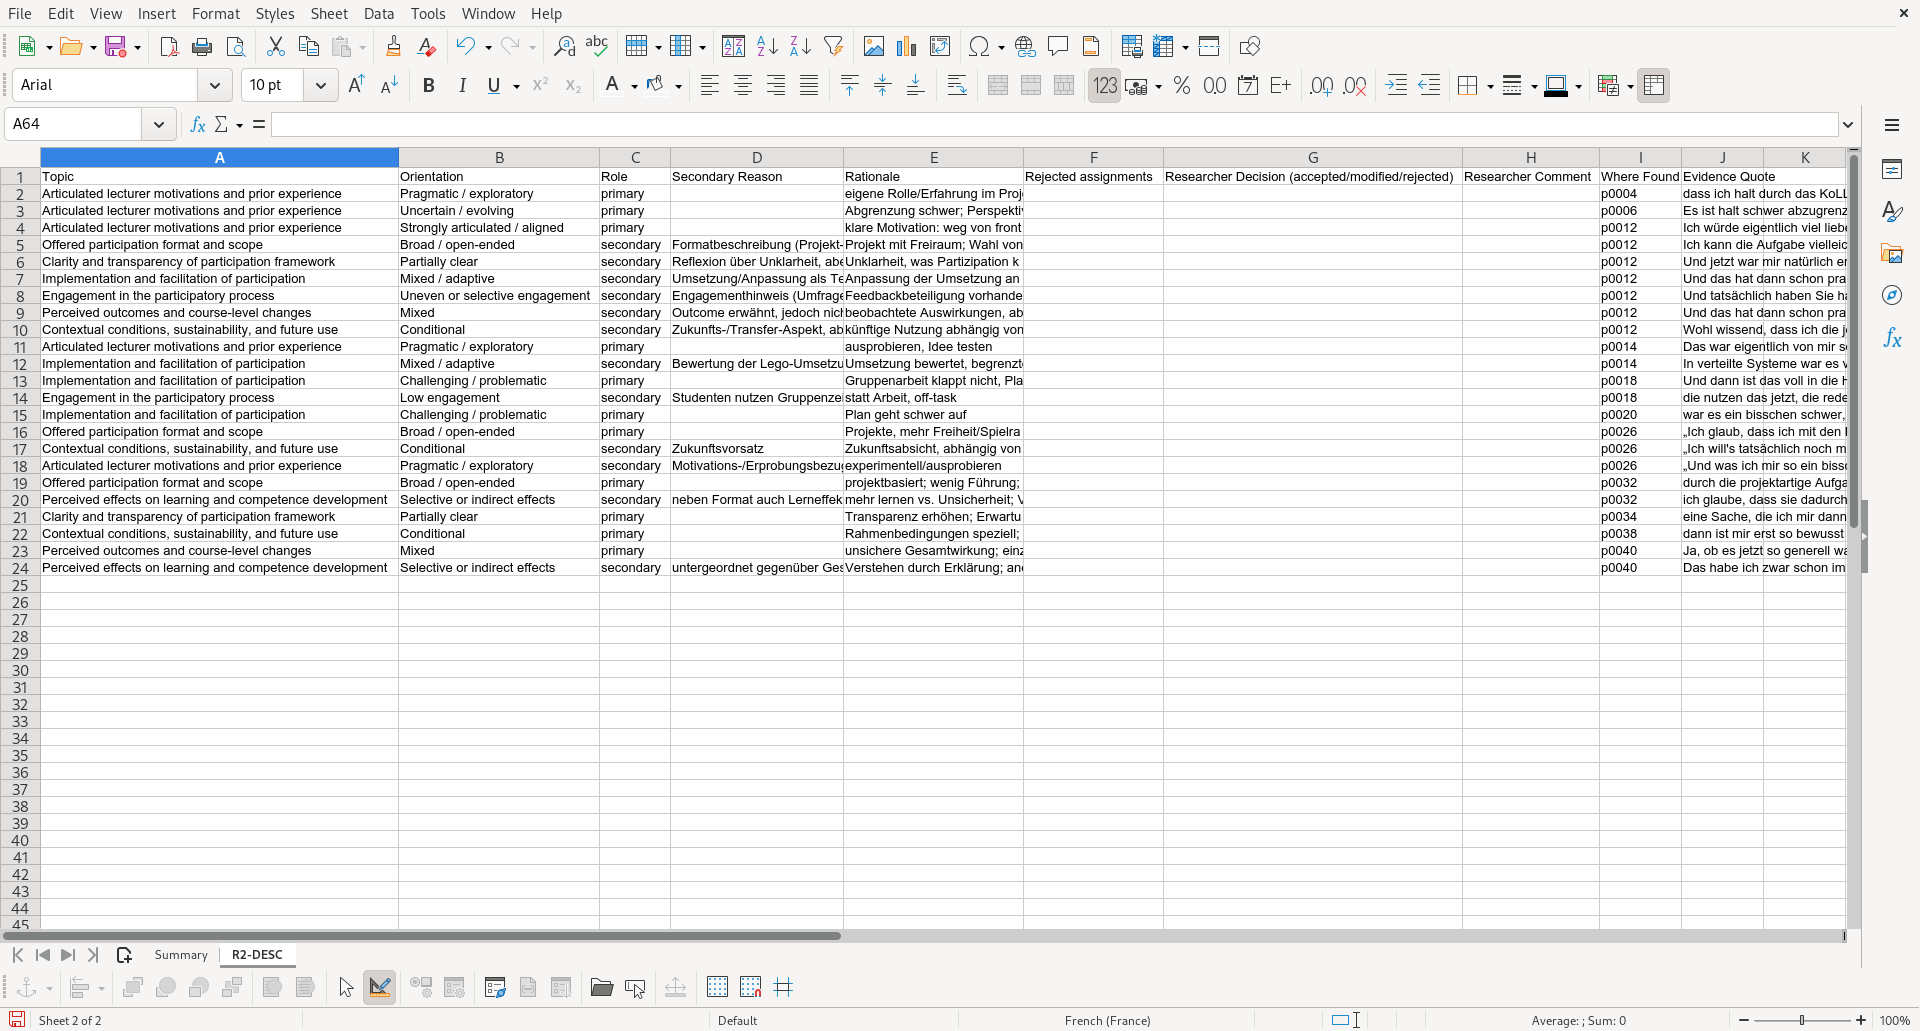
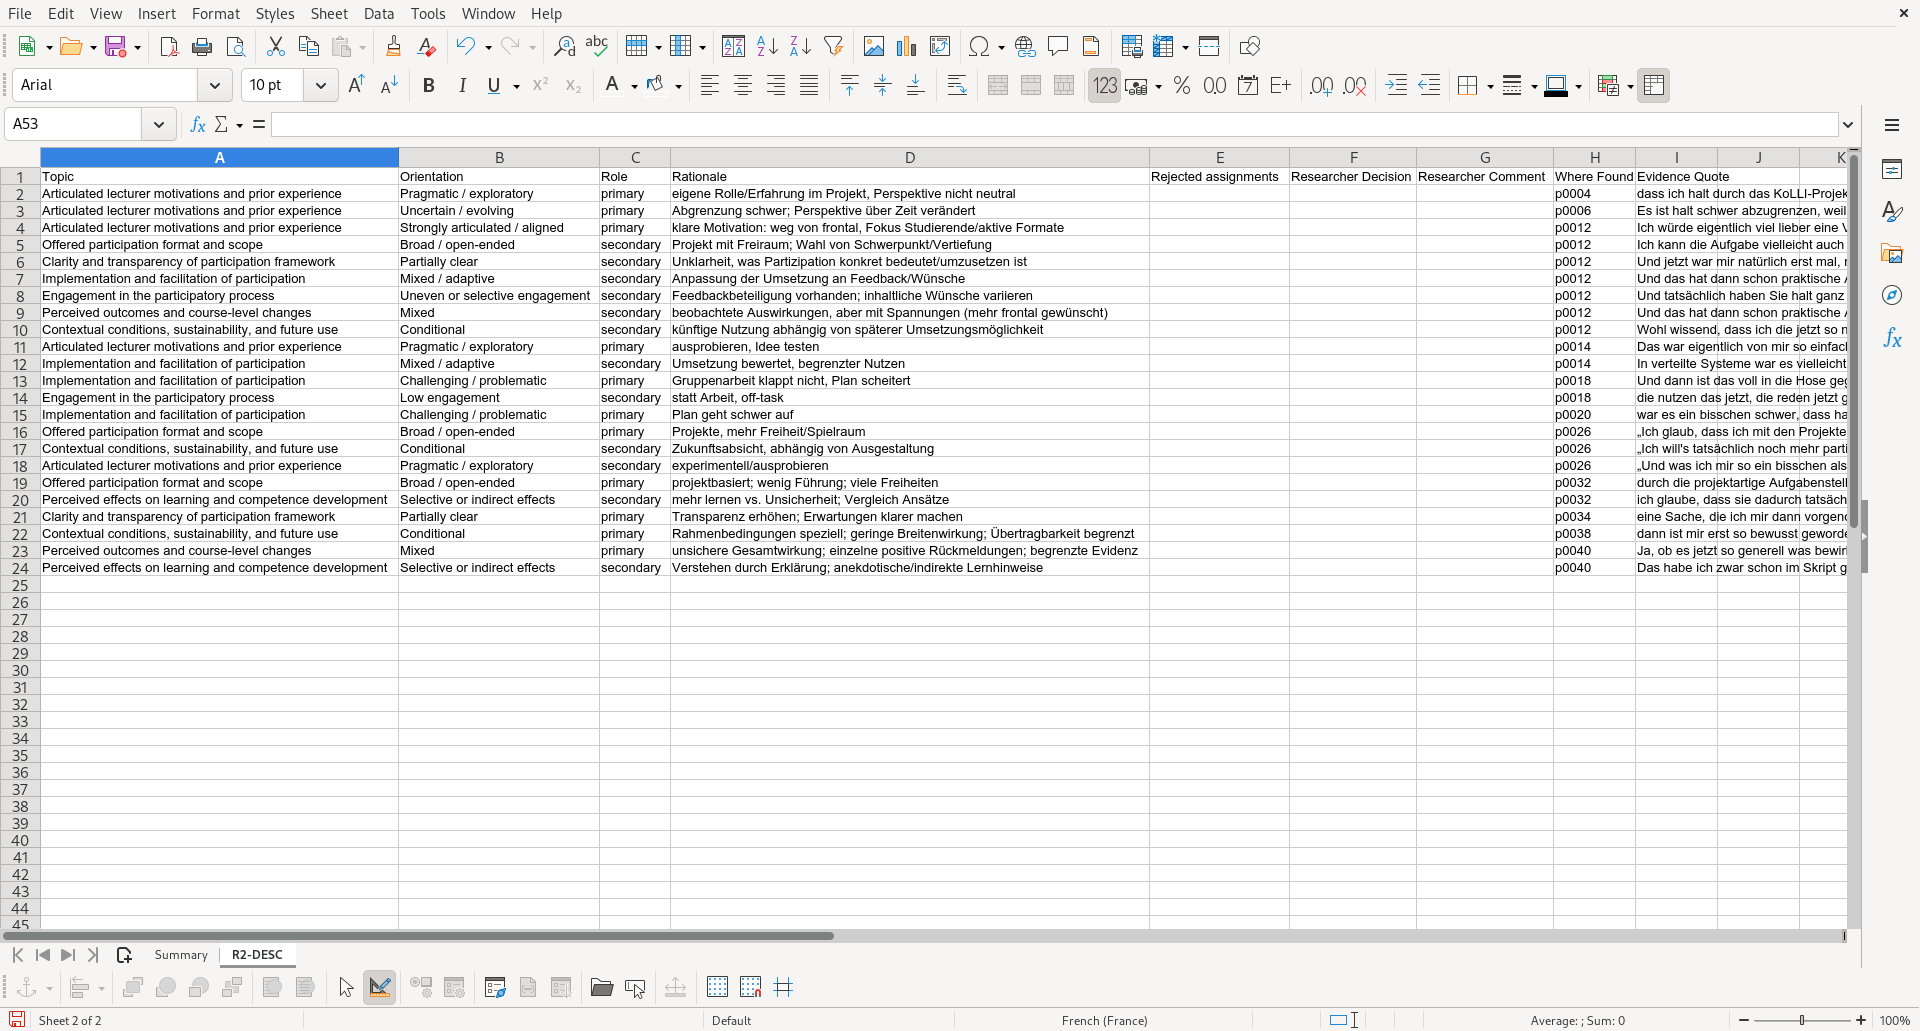
Remove unneeded 'secondary reason' column

diff --git a/interview_analysis/actions/analyze.py b/interview_analysis/actions/analyze.py
@@ -31,7 +31,7 @@ from interview_analysis.hash_utils import md5_file, md5_text
 from interview_analysis.yaml_io import read_yaml_mapping
 
 
-ANALYSIS_OUTPUT_VERSION = 4
+ANALYSIS_OUTPUT_VERSION = 5
 
 
 @dataclass(frozen=True)
@@ -712,7 +712,6 @@ class AnalyzeAction:
             "If allow_secondary_assignments=true, you may assign multiple topics per paragraph.",
             "When allow_multiple_primary_assignments=false, assign exactly one primary topic per paragraph when any topic applies, and mark any additional topics as secondary.",
             "When allow_multiple_primary_assignments=true, you may mark multiple topics as primary if they are equally central (e.g., very long statements).",
-            "Secondary topics must include a short keyword note explaining why they are secondary.",
         ]
         if explain_assignments:
             task_parts.append(
@@ -763,7 +762,6 @@ class AnalyzeAction:
                                     else {}
                                 ),
                                 "kind": "<primary|secondary>",
-                                "secondary_reason": "<keyword if kind=secondary, else empty>",
                             }
                         ],
                     }
@@ -852,7 +850,6 @@ class AnalyzeAction:
                 evidence = a.get("evidence")
                 rationale = a.get("rationale")
                 kind = a.get("kind")
-                secondary_reason = a.get("secondary_reason")
                 if not isinstance(topic, str) or not isinstance(evidence, str):
                     continue
                 if not topic.strip() or not evidence.strip():
@@ -880,16 +877,9 @@ class AnalyzeAction:
                     orientation_norm = ""
 
                 kind_norm = self._normalize_secondary_kind(kind)
-                secondary_reason_norm = ""
                 if not allow_secondary_assignments:
                     kind_norm = "primary"
-                elif kind_norm == "secondary":
-                    if isinstance(secondary_reason, str):
-                        secondary_reason_norm = " ".join(secondary_reason.split()).strip()
-                    if not secondary_reason_norm:
-                        # Require a keyword note for secondary assignments.
-                        continue
-                else:
+                elif kind_norm != "secondary":
                     kind_norm = "primary"
 
                 rationale_norm = ""
@@ -907,7 +897,6 @@ class AnalyzeAction:
                         "evidence": evidence,
                         "rationale": rationale_norm,
                         "kind": kind_norm,
-                        "secondary_reason": secondary_reason_norm,
                         "rejected_assignments": rejected_norm,
                     }
                 )
@@ -935,14 +924,11 @@ class AnalyzeAction:
                     downgraded = primaries[1:]
                     for x in downgraded:
                         x["kind"] = "secondary"
-                        if not str(x.get("secondary_reason") or "").strip():
-                            x["secondary_reason"] = "secondary_due_to_primary_conflict"
                     mapping[pid] = [kept] + secondaries + downgraded
             else:
                 # If model returned only secondary topics, treat the first as primary.
                 kept = secondaries[0]
                 kept["kind"] = "primary"
-                kept["secondary_reason"] = ""
                 mapping[pid] = [kept] + secondaries[1:]
 
         return mapping, errors, warnings
@@ -1011,7 +997,6 @@ class AnalyzeAction:
                 "If allow_secondary_assignments=true, classify a match as primary if it is central to the statement, or secondary if it is only a minor mention.",
                 "When allow_multiple_primary_assignments=false, only one topic per paragraph should be primary overall; mark other topic matches as secondary.",
                 "When allow_multiple_primary_assignments=true, multiple topic matches may be marked as primary if they are equally central (e.g., very long statements).",
-                "Secondary matches must include a short keyword note explaining why they are secondary.",
             ]
             if explain_assignments:
                 task_parts.append(
@@ -1071,7 +1056,6 @@ class AnalyzeAction:
                                 else {}
                             ),
                             "kind": "<primary|secondary>",
-                            "secondary_reason": "<keyword if kind=secondary, else empty>",
                         }
                     ],
                     **(
@@ -1140,7 +1124,6 @@ class AnalyzeAction:
                 evidence = m.get("evidence")
                 rationale = m.get("rationale")
                 kind = m.get("kind")
-                secondary_reason = m.get("secondary_reason")
                 if not isinstance(pid, str) or not isinstance(evidence, str):
                     continue
                 if not pid.strip() or not evidence.strip():
@@ -1162,14 +1145,10 @@ class AnalyzeAction:
                     orientation_norm = ""
 
                 kind_norm = "primary"
-                secondary_reason_norm = ""
                 if allow_secondary_assignments:
                     kind_norm = self._normalize_secondary_kind(kind)
-                    if kind_norm == "secondary":
-                        if isinstance(secondary_reason, str):
-                            secondary_reason_norm = " ".join(secondary_reason.split()).strip()
-                        if not secondary_reason_norm:
-                            continue
+                    if kind_norm != "secondary":
+                        kind_norm = "primary"
                 else:
                     kind_norm = "primary"
 
@@ -1187,7 +1166,6 @@ class AnalyzeAction:
                         "evidence": evidence,
                         "rationale": rationale_norm,
                         "kind": kind_norm,
-                        "secondary_reason": secondary_reason_norm,
                     }
                 )
 
@@ -1209,7 +1187,6 @@ class AnalyzeAction:
                 if not primaries:
                     # If model returned only secondary topics, treat the first as primary.
                     assigns[0]["kind"] = "primary"
-                    assigns[0]["secondary_reason"] = ""
                     continue
 
                 if allow_multiple_primary_assignments:
@@ -1224,8 +1201,6 @@ class AnalyzeAction:
                         continue
                     if a.get("kind") == "primary":
                         a["kind"] = "secondary"
-                        if not str(a.get("secondary_reason") or "").strip():
-                            a["secondary_reason"] = "secondary_due_to_primary_conflict"
 
         # Attach consolidated rejected assignment lists to each kept assignment.
         for pid, assigns in combined.items():

diff --git a/interview_analysis/actions/write_output.py b/interview_analysis/actions/write_output.py
@@ -289,7 +289,6 @@ class WriteOutputAction:
                         rationale = a.get("rationale")
                         rejected_assignments = a.get("rejected_assignments")
                         kind = a.get("kind")
-                        secondary_reason = a.get("secondary_reason")
                         if not isinstance(topic, str) or not isinstance(evidence, str):
                             continue
 
@@ -306,9 +305,6 @@ class WriteOutputAction:
                         kind_norm = "primary"
                         if isinstance(kind, str) and kind.strip().lower() in {"secondary", "minor", "s"}:
                             kind_norm = "secondary"
-                        secondary_reason_norm = ""
-                        if kind_norm == "secondary" and isinstance(secondary_reason, str):
-                            secondary_reason_norm = " ".join(secondary_reason.split()).strip()
 
                         rationale_norm = ""
                         if isinstance(rationale, str):
@@ -345,7 +341,6 @@ class WriteOutputAction:
                                 "topic": topic_key,
                                 "orientation": orientation_bucket,
                                 "role": kind_norm,
-                                "secondary_reason": secondary_reason_norm,
                                 "rationale": rationale_norm,
                                 "rejected_assignments": rejected_norm,
                                 "researcher_decision": "",
@@ -567,7 +562,6 @@ class WriteOutputAction:
             header.append_cell(Cell(text=_xml_safe_text("Topic")))
             header.append_cell(Cell(text=_xml_safe_text("Orientation")))
             header.append_cell(Cell(text=_xml_safe_text("Role")))
-            header.append_cell(Cell(text=_xml_safe_text("Secondary Reason")))
             header.append_cell(Cell(text=_xml_safe_text("Rationale")))
             header.append_cell(Cell(text=_xml_safe_text("Rejected assignments")))
             header.append_cell(Cell(text=_xml_safe_text("Researcher Decision (accepted/modified/rejected)")))
@@ -585,7 +579,6 @@ class WriteOutputAction:
                     row.append_cell(Cell(text=_xml_safe_text(r.get("topic", ""))))
                     row.append_cell(Cell(text=_xml_safe_text(r.get("orientation", ""))))
                     row.append_cell(Cell(text=_xml_safe_text(r.get("role", ""))))
-                    row.append_cell(Cell(text=_xml_safe_text(r.get("secondary_reason", ""))))
                     row.append_cell(Cell(text=_xml_safe_text(r.get("rationale", ""))))
                     row.append_cell(Cell(text=_xml_safe_text(r.get("rejected_assignments", ""))))
                     row.append_cell(Cell(text=_xml_safe_text(r.get("researcher_decision", ""))))

diff --git a/README.md b/README.md
@@ -483,7 +483,6 @@ The output is an OpenDocument Spreadsheet (`.ods`) with:
 	- Topic
 	- Orientation
 	- Role (primary/secondary)
-	- Secondary reason (keyword; only for secondary)
 	- Rationale (short; optional)
 	- Rejected assignments (short list; optional)
 	- Researcher decision (accepted/modified/rejected)
